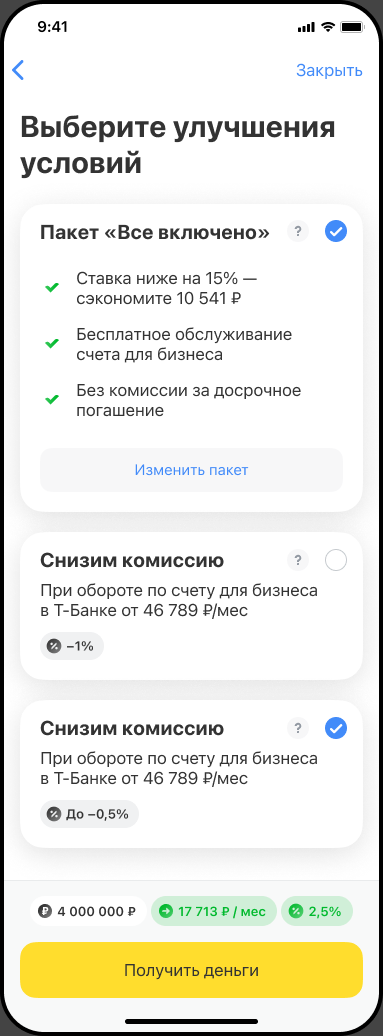
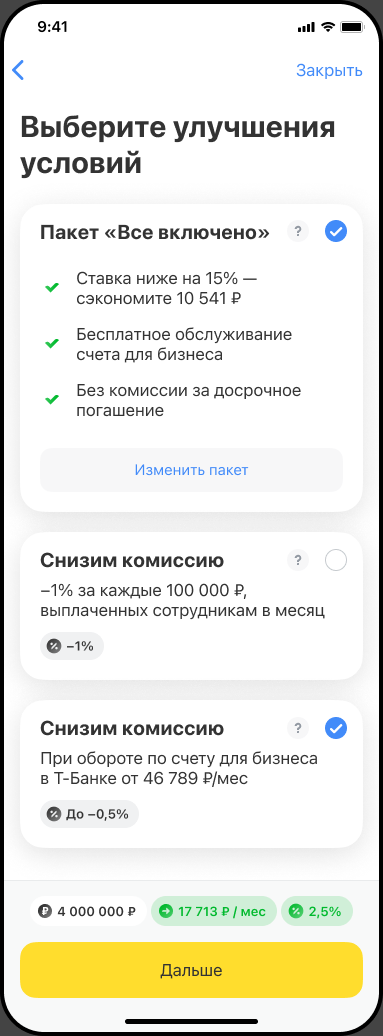
«Единая активация» v3: путь через «Тяжелые» — документы → «Легкие» → «Проверка условий»; тексты по обновлённому макету (#35)
* feat(credit-activation): v3 draft

Claude-Session: https://claude.ai/code/session_01Rf9ma3DRpgUiHXsyQZVHT9

* feat(proto-shell): version switch next to menu axes, greyed-out axes on later versions

- ds-segmented gets a disabled attribute (aria-disabled, inert buttons, tertiary text).
- The menu shows the captioned version control next to the axes; a version without axes after a
  version with them shows those axes disabled with the last choice, restored on the way back.
- The phone variants sheet switches versions too.

Claude-Session: https://claude.ai/code/session_01Rf9ma3DRpgUiHXsyQZVHT9

* docs(credit-activation): v3 Figma intake (references, spec, ledger)

Claude-Session: https://claude.ai/code/session_01Rf9ma3DRpgUiHXsyQZVHT9

* docs: register ADR-0024 (version switch next to menu axes)

Claude-Session: https://claude.ai/code/session_01Rf9ma3DRpgUiHXsyQZVHT9

* feat(credit-activation): v3 screens — conditions, heavy, review, documents, light, success

Claude-Session: https://claude.ai/code/session_01Rf9ma3DRpgUiHXsyQZVHT9

* test(e2e): credit-activation v3 flow, heavy and direct paths

Claude-Session: https://claude.ai/code/session_01Rf9ma3DRpgUiHXsyQZVHT9

* fix(proto-shell): keep greyed-out axis choice in the viewer URL; review fixes

- The viewer URL of a version showing another version's axes greyed out carries the kept choice, so a
  reload or a shared link keeps it (matches the installed-app shell).
[…]

Changed region(s): [[0.1149, 0.556, 0.8616, 0.6178], [0.3446, 0.9266, 0.6606, 0.9575]]

diff --git a/tests/e2e/smoke.spec.ts b/tests/e2e/smoke.spec.ts
@@ -284,11 +284,13 @@ test('credit-activation v3: the heavy path through documents and the direct path
   await page.emulateMedia({ reducedMotion: 'reduce' });
   await page.goto('/p/credit-activation/v3/?shell=0#/');
   const top = page.locator('section:not([inert])');
+  const legal = top.getByText(/Нажимая «Получить деньги»/);
+
+  // Heavy path: heavy → documents (+ upload) → light → review («Получить деньги») → success.
   await top.getByRole('button', { name: /Увеличить лимит/ }).click();
   await expect(page).toHaveURL(/#\/heavy$/);
   await expect(top.getByRole('heading', { name: 'Как хотите увеличить лимит' })).toBeVisible();
-  await top.getByRole('button', { name: 'Дальше' }).click();
-  await expect(page).toHaveURL(/#\/review$/);
+  await top.getByRole('checkbox', { name: /Оставить в залог авто/ }).click();
   await top.getByRole('button', { name: 'Дальше' }).click();
   await expect(page).toHaveURL(/#\/documents$/);
   await page.locator('[data-route="#/documents"]').getByRole('button', { name: 'Загрузить' }).first().click();
@@ -297,30 +299,32 @@ test('credit-activation v3: the heavy path through documents and the direct path
   await expect(page).toHaveURL(/#\/documents$/);
   // As in v2, the upload screen sends both documents at once.
   await expect(page.locator('[data-route="#/documents"]').getByText('Загружено')).toHaveCount(2);
-  // «Получить деньги» lives only on the light conditions screen.
-  await expect(top.getByRole('button', { name: 'Получить деньги' })).toHaveCount(0);
   await top.getByRole('button', { name: 'Дальше' }).click();
   await expect(page).toHaveURL(/#\/light$/);
   await expect(top.getByRole('heading', { name: 'Выберите улучшения условий' })).toBeVisible();
-  await expect(top.getByText(/Нажимая «Получить деньги»/)).toBeVisible();
+  // «Получить деньги» and its legal line are only on the review screen.
+  await expect(top.getByRole('button', { name: 'Получить деньги' })).toHaveCount(0);
+  await expect(legal).toHaveCount(0);
+  await top.getByRole('button', { name: 'Дальше' }).click();
+  await expect(page).toHaveURL(/#\/review$/);
+  await expect(top.getByText('Понадобится проверка')).toBeVisible();
+  await expect(legal).toBeVisible();
   await top.getByRole('button', { name: 'Получить деньги' }).click();
   await expect(page).toHaveURL(/#\/success$/);
   await expect(top.getByRole('heading', { name: /Зачисляем/ })).toBeVisible();
   await top.getByRole('button', { name: 'К счету' }).click();
   await expect(page).toHaveURL(/#\/$/);
 
-  // Direct path: «Дальше» on light conditions (no «Получить деньги», no legal line) → review, where «Получить
-  // деньги» with the legal line → success.
+  // Direct path: light → review → success.
   await top.getByRole('button', { name: 'Дальше' }).click();
   await expect(page).toHaveURL(/#\/light$/);
-  await expect(top.getByRole('button', { name: 'Получить деньги' })).toHaveCount(0);
-  await expect(top.getByText(/Нажимая «Получить деньги»/)).toHaveCount(0);
+  await expect(legal).toHaveCount(0);
   await top.getByRole('button', { name: 'Назад' }).click();
   await expect(page).toHaveURL(/#\/$/);
   await top.getByRole('button', { name: 'Дальше' }).click();
   await top.getByRole('button', { name: 'Дальше' }).click();
   await expect(page).toHaveURL(/#\/review$/);
-  await expect(top.getByText(/Нажимая «Получить деньги»/)).toBeVisible();
+  await expect(legal).toBeVisible();
   await top.getByRole('button', { name: 'Получить деньги' }).click();
   await expect(page).toHaveURL(/#\/success$/);
   await top.getByRole('button', { name: 'К счету' }).click();

diff --git a/prototypes/credit-activation/versions/v3/src/screens/light.ts b/prototypes/credit-activation/versions/v3/src/screens/light.ts
@@ -1,11 +1,9 @@
 // #/light — «Выберите улучшения условий»: the package (on by default) and two «Снизим комиссию» cards, which
 // are mutually exclusive (owner, Q3: selecting one clears the other; tapping the selected one clears it). The
-// sticky panel's chips are recalculated on every toggle; «Получить деньги» (heavy path, with the legal line) pushes #/success;
-// on the direct path (state.direct) the button is «Дальше» without the legal line and pushes #/review, where
-// «Получить деньги» and the legal line are.
+// sticky panel's chips are recalculated on every toggle; «Дальше» (no legal line) pushes #/review on both
+// paths (owner, 2026-10-20).
 import type { FeeCut } from '../calc';
 import {
-  LEGAL,
   badge,
   badges,
   bottomBlock,
@@ -37,7 +35,10 @@ const packageRows = () => `
     ).join('')}
   </span>`;
 
-const FEE_TEXT = 'При обороте по счету для бизнеса в&nbsp;Т‑Банке от&nbsp;46&nbsp;789&nbsp;₽/мес';
+const FEE_TEXT: Record<FeeCut, string> = {
+  one: '−1% за&nbsp;каждые 100&nbsp;000&nbsp;₽, выплаченных сотрудникам в&nbsp;месяц',
+  half: 'При обороте по счету для бизнеса в&nbsp;Т‑Банке от&nbsp;46&nbsp;789&nbsp;₽/мес',
+};
 
 type Key = 'package' | FeeCut;
 
@@ -54,7 +55,7 @@ const feeCard = (key: FeeCut, label: string) =>
     choice: key,
     title: 'Снизим комиссию',
     titleText: `Снизим комиссию ${label}`,
-    description: FEE_TEXT,
+    description: FEE_TEXT[key],
     checked: isOn(key),
     body: badges(badge('percent', label)),
   });
@@ -82,14 +83,9 @@ export const light: Screen = {
         ${feeCard('half', 'До −0,5%')}
       </div>
     </div>
-    ${bottomBlock(
-      state.direct
-        ? { chips: chips('light'), button: primaryButton('Дальше', 'next') }
-        : { chips: chips('light'), button: primaryButton('Получить деньги', 'next'), legalBelow: LEGAL },
-    )}`,
+    ${bottomBlock({ chips: chips('light'), button: primaryButton('Дальше', 'next') })}`,
 
-  // Heavy path: «Получить деньги» (with the legal line) → #/success; direct path: «Дальше» → #/review.
-  next: () => (state.direct ? '#/review' : '#/success'),
+  next: () => '#/review',
 
   refresh(root) {
     renderCards(root, isOn);

diff --git a/prototypes/credit-activation/versions/v3/src/screens/review.ts b/prototypes/credit-activation/versions/v3/src/screens/review.ts
@@ -1,5 +1,5 @@
-// #/review — check the amount, the conditions that are on and the account. Heavy path: «Дальше» → #/documents;
-// direct path (#/ → #/light → #/review): «Получить деньги» with the legal line → #/success (owner, 2026-10-20).
+// #/review — check the amount, the conditions that are on and the account; the last step of both paths:
+// «Получить деньги» with the legal line → #/success (owner, 2026-10-20).
 // No «Комиссия» row (owner, Q8). «Залог и условия» lists what is on; it is left out only when nothing is.
 import { formatRub, formatRubKopecks, monthlyPayment, totalAmount } from '../calc';
 import { LEGAL, bottomBlock, primaryButton, secondaryButton, topBars } from '../components';
@@ -27,7 +27,7 @@ const avatarRow = (iconName: string, title: string, text: string) => `
 /** Rows of «Залог и условия» in the spec order: pledge, check, statement, package. */
 function conditionRows(): string[] {
   const rows: string[] = [];
-  if (state.pledge) rows.push(avatarRow('transport-auto.svg', 'Mercedes-Benz W214', 'Понадобится фото СТС'));
+  if (state.pledge) rows.push(avatarRow('transport-auto.svg', 'Mercedes-Benz W214', 'Понадобится проверка'));
   if (state.check)
     rows.push(avatarRow('doc.svg', 'Проверка данных', 'Обычно занимает до&nbsp;1 рабочего дня'));
   if (state.statement)
@@ -76,12 +76,8 @@ export const review: Screen = {
         </section>
       </div>
     </div>
-    ${bottomBlock(
-      state.direct
-        ? { button: primaryButton('Получить деньги', 'next'), legalBelow: LEGAL }
-        : { button: primaryButton('Дальше', 'next') },
-    )}`;
+    ${bottomBlock({ button: primaryButton('Получить деньги', 'next'), legalBelow: LEGAL })}`;
   },
 
-  next: () => (state.direct ? '#/success' : '#/documents'),
+  next: () => '#/success',
 };

diff --git a/prototypes/credit-activation/versions/v3/src/screens/conditions.ts b/prototypes/credit-activation/versions/v3/src/screens/conditions.ts
@@ -1,11 +1,10 @@
 // #/ — «Условия»: the approved offer (static amount and terms) and two ways forward: the card «Увеличить
-// лимит» pushes #/heavy (heavy path), «Дальше» pushes #/light (direct path: #/light → #/review → #/success with
-// «Дальше» everywhere, owner 2026-10-20). The terms are the calc values of the offer before any choice
+// лимит» pushes #/heavy (#/heavy → #/documents → #/light → #/review → #/success), «Дальше» pushes #/light
+// (#/light → #/review → #/success). The terms are the calc values of the offer before any choice
 // (owner, Q1), so «Платеж в месяц» is the formula value at 4 000 000 ₽, not the drawn 193 500 ₽.
 import { AMOUNT, BASE_CHOICE, BASE_FEE, formatPercent, formatRub, monthlyPayment } from '../calc';
 import { bottomBlock, infoCard, primaryButton, pushRoute, topBars } from '../components';
 import { icon } from '../icons';
-import { state } from '../state';
 import type { Screen } from './types';
 
 const limitCard = () => `
@@ -40,8 +39,4 @@ export const conditions: Screen = {
     ${bottomBlock({ button: primaryButton('Дальше', 'next') })}`,
 
   next: () => '#/light',
-
-  beforeAction(control) {
-    state.direct = control.dataset.action === 'next';
-  },
 };

diff --git a/prototypes/credit-activation/versions/v3/src/screens/heavy.ts b/prototypes/credit-activation/versions/v3/src/screens/heavy.ts
@@ -1,6 +1,6 @@
 // #/heavy — «Как хотите увеличить лимит»: three independent option cards (checkbox semantics, radio look) and
 // the sticky panel whose chips (amount, payment, fee) are recalculated on every toggle. «Дальше» is always
-// enabled (owner, Q9).
+// enabled (owner, Q9) and pushes #/documents (owner, 2026-10-20).
 import { CHECK_BONUS, formatRub, PLEDGE_BONUS, STATEMENT_LIMIT } from '../calc';
 import {
   badge,
@@ -63,7 +63,7 @@ export const heavy: Screen = {
     </div>
     ${bottomBlock({ chips: chips('heavy'), button: primaryButton('Дальше', 'next') })}`,
 
-  next: () => '#/review',
+  next: () => '#/documents',
 
   refresh(root) {
     renderCards(root, (key) => state[key as Option]);

diff --git a/prototypes/credit-activation/versions/v3/src/screens/index.ts b/prototypes/credit-activation/versions/v3/src/screens/index.ts
@@ -22,8 +22,8 @@ export function screenFor(hash: string): Screen {
   return SCREENS.find((screen) => screen.route === route) ?? ROOT;
 }
 
-/** The main scenario: #/ → #/heavy → #/review → #/documents → #/light → #/success. */
-const MAIN: readonly Screen[] = [conditions, heavy, review, documents, light, success];
+/** The main scenario: #/ → #/heavy → #/documents → #/light → #/review → #/success. */
+const MAIN: readonly Screen[] = [conditions, heavy, documents, light, review, success];
 
 /**
  * Default path to a screen along the main scenario; #/upload sits on top of #/documents. #/light takes the long

diff --git a/prototypes/credit-activation/versions/v3/src/components.ts b/prototypes/credit-activation/versions/v3/src/components.ts
@@ -3,7 +3,7 @@ import { duration, ease, gsap, prefersReducedMotion } from '@proto/motion';
 import type { Tone } from './calc';
 import { icon, maskStyle } from './icons';
 
-/** Legal line under «Получить деньги»: #/light on the heavy path, #/review on the direct path (owner, 2026-10-20). */
+/** Legal line under «Получить деньги» on #/review, the last step of both paths (owner, 2026-10-20). */
 export const LEGAL =
   'Нажимая «Получить деньги», вы соглашаетесь <u>с&nbsp;условиями</u>. Они доступны до 16&nbsp;сентября';
 

diff --git a/prototypes/credit-activation/versions/v3/src/state.ts b/prototypes/credit-activation/versions/v3/src/state.ts
@@ -17,11 +17,9 @@ export interface FlowState {
   docsUploaded: boolean;
   /** Names of the files chosen in the file field. */
   files: string[];
-  /** Direct path: «Дальше» on #/ went straight to #/light (→ #/review «Получить деньги» → #/success). */
-  direct: boolean;
 }
 
-const initial = (): FlowState => ({ ...BASE_CHOICE, docsUploaded: false, files: [], direct: false });
+const initial = (): FlowState => ({ ...BASE_CHOICE, docsUploaded: false, files: [] });
 
 export const state: FlowState = initial();
 

diff --git a/docs/STATUS.md b/docs/STATUS.md
@@ -3,7 +3,7 @@
 Вся документация ведётся в Google Drive, в папке **Proto/Docs** (ADR-0004). Этот файл — только указатель для новой сессии.
 
 - **Полный STATUS:** Google Doc «STATUS» — https://docs.google.com/document/d/1ZB4tYTN-dJxOKq3Pa-ojL29QglDGBzcl-6g-sDIiH6E/edit (fileId `1ZB4tYTN-dJxOKq3Pa-ojL29QglDGBzcl-6g-sDIiH6E`).
-- **Текущая фаза:** плановые фазы 0–8 завершены; редизайн среды (ADR-0020) и ADR-0021 смержены. «Единая активация» v2 и оси меню просмотрщика (ADR-0022) смержены (PR #22); анимация нажатия карточек — PR #23 смержен. Кнопка вариантов на телефоне (ADR-0023), фиксированный платёж и возврат ползунка — PR #24 смержен. Залог тапом прибавляет +3 млн к ползунку — PR #25 смержен. Платёж от суммы, без пакета КН +15% — PR #26 смержен. В работе: текстовые стили v2 как в Figma, белый фон на телефоне, хаптик ползунка — PR #27 смержен. В работе: хаптик на iOS, панель до низа экрана, отступы карточек — PR #28 смержен. В работе: интервал текста в Safari не удваивается, ползунок после снятия залога — PR #29 смержен. Интервал текста по таблице системного шрифта iOS — PR #30 смержен. «Единая активация» v3 (сценарий «Тяжелые / Легкие») и переключатель версий рядом с осями меню, оси v2 на v3 серые (ADR-0024) — PR #31 смержен. v3 — на «Несколько документов» кнопка «Дальше», «Получить деньги» только на «Легких» — PR #32 смержен. v3 — путь сразу через «Легкие» идёт «Дальше» → «Проверка условий» → «Успех» — PR #33 смержен. В работе: v3 — в пути сразу через «Легкие» на «Проверке условий» кнопка «Получить деньги» с юридической строкой — PR ждёт мержа. Дальше — работа по плейбукам в Proto/Docs/Playbooks.
+- **Текущая фаза:** плановые фазы 0–8 завершены; редизайн среды (ADR-0020) и ADR-0021 смержены. «Единая активация» v2 и оси меню просмотрщика (ADR-0022) смержены (PR #22); анимация нажатия карточек — PR #23 смержен. Кнопка вариантов на телефоне (ADR-0023), фиксированный платёж и возврат ползунка — PR #24 смержен. Залог тапом прибавляет +3 млн к ползунку — PR #25 смержен. Платёж от суммы, без пакета КН +15% — PR #26 смержен. В работе: текстовые стили v2 как в Figma, белый фон на телефоне, хаптик ползунка — PR #27 смержен. В работе: хаптик на iOS, панель до низа экрана, отступы карточек — PR #28 смержен. В работе: интервал текста в Safari не удваивается, ползунок после снятия залога — PR #29 смержен. Интервал текста по таблице системного шрифта iOS — PR #30 смержен. «Единая активация» v3 (сценарий «Тяжелые / Легкие») и переключатель версий рядом с осями меню, оси v2 на v3 серые (ADR-0024) — PR #31 смержен. v3 — на «Несколько документов» кнопка «Дальше», «Получить деньги» только на «Легких» — PR #32 смержен. v3 — путь сразу через «Легкие» идёт «Дальше» → «Проверка условий» → «Успех» — PR #33 смержен. v3 — в пути сразу через «Легкие» на «Проверке условий» «Получить деньги» с юридической строкой — PR #34 смержен. В работе: v3 — путь через «Тяжелые» идёт через документы и «Легкие» к «Проверке условий» с «Получить деньги»; тексты по обновлённому макету — PR ждёт мержа. Дальше — работа по плейбукам в Proto/Docs/Playbooks.
 - **Обновлено:** 2026-10-20.
 
 ## Как продолжить (для новой сессии)

diff --git a/prototypes/credit-activation/versions/v3/qa/progress.md b/prototypes/credit-activation/versions/v3/qa/progress.md
@@ -156,3 +156,10 @@ Defaults the builder follows until answered are in `spec/spec.md`.
   `#/success`. The heavy path is unchanged. `state.direct` is set by the control pressed on `#/`; deep links take
   the heavy path.
 - Change (2026-10-20): on the direct path `#/review` shows «Получить деньги» with the legal line (was «Дальше»).
+- Change (2026-10-20, Figma V4 updated): heavy path reordered to `#/heavy → #/documents → #/light → #/review →
+#/success`; `#/light` «Дальше» → `#/review` on both paths; `#/review` «Получить деньги» with the legal line on both
+  paths; `state.direct` removed. Texts from the updated frames: `#/review` pledge row «Понадобится проверка»
+  (was «Понадобится фото СТС»); `#/light` −1% card «−1% за каждые 100 000 ₽, выплаченных сотрудникам в месяц».
+- Figma calls for this change (2026-10-20): `get_screenshot` 60:3874 (section diff against the intake render: only
+  «Проверка условий» and «Легкие» changed; their frames are now `65:5511` and `63:5252`), `get_metadata` 60:3874,
+  `get_screenshot` 65:5511 → `03-review.png`, 63:5252 → `06-light.png`; `00-flow.png` re-saved.
